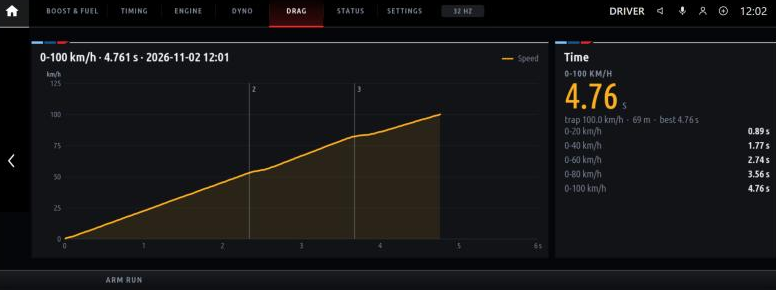
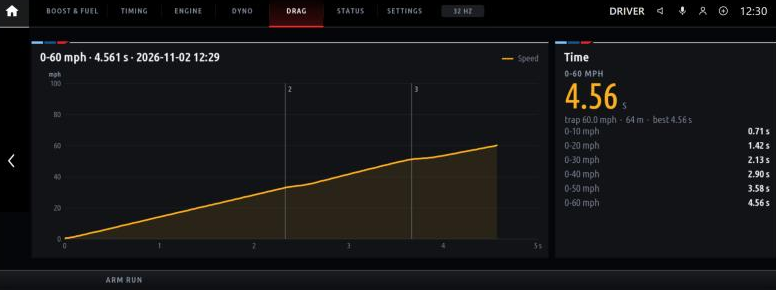
Default to mph, hp and lb-ft; 0-60 mph as the default drag run
Speed now defaults to mph and torque to lb-ft (power was already hp), and
the drag timer to 0-60 mph, with the US choices listed first. Every unit
stays a setting. README: a Units section listing each setting and its
choices, and the dyno and drag screenshots retaken in hp, lb-ft and mph.

diff --git a/README.md b/README.md
@@ -19,13 +19,29 @@ Boostline is an independent community project. It is not affiliated with or endo
 - **Live tiles** on three pages (*Boost & fuel*, *Timing*, *Engine*):
   - Each tile shows the current value and a 12-second trace.
   - Actual/target pairs share a tile with a deviation bar: boost, lambda, rail pressure, wastegate, throttle and VANOS.
-  - Units are bar/psi/kPa, °C/°F, km/h/mph and lambda/AFR.
+  - Values are shown in the units you pick (see [Units](#units)).
 - **Start capture** writes a Boostline CSV log to the app's data folder. The desktop app's log viewer, dyno and drag tools open it. Optionally, every full-throttle pull is captured automatically.
 - **Status page:** VIN, DME software, diagnostic index, which BMW DME data is in use, sample rate, the diagnostic link's request counts, and Boostline's log.
 
+### Units
+
+Speed, power and torque default to **mph, hp and lb-ft**, and the default drag run is 0–60 mph. You can change each of them in the app's **Settings** (the Settings tab, or the Settings button):
+
+| Setting | Choices (default first) |
+|---|---|
+| Speed unit | mph, km/h |
+| Power unit | hp, PS, kW |
+| Torque unit | lb-ft, Nm |
+| Pressure unit | bar, psi, kPa |
+| Temperature unit | Celsius, Fahrenheit |
+| Mixture as | lambda, AFR (petrol) |
+| Drag: run | 0–60 mph, 60–130 mph, 1/8 mile, 1/4 mile, 0–100 / 100–200 / 200–300 km/h |
+
+A change applies at once: the live tiles, the dyno curves and peaks, and the drag times and trace are redrawn in the new unit. Saved runs and logs aren't changed; they keep Boostline's native units, as on the desktop. The dyno's weight setting is in kg.
+
 ### Dyno (road dyno)
 
-![The Dyno page: engine power, wheel power and torque against rpm from a 4th-gear pull, with the peaks](docs/emulator-dyno.png)
+![The Dyno page: engine power, wheel power (hp) and torque (lb-ft) against rpm from a 4th-gear pull, with the peaks](docs/emulator-dyno.png)
 
 1. On the *Dyno* page, press **Arm run**.
 2. Do a full-throttle pull in one gear (3rd or 4th), from below the start rpm (2000 by default) to past the end rpm (6500 by default).
@@ -38,13 +54,13 @@ Boostline detects the pull and the gear on its own. It estimates engine power, w
 
 ### Drag
 
-![The Drag page: a 0-100 km/h run with the speed trace, the shifts, the time, trap speed and splits](docs/emulator-drag.png)
+![The Drag page: a 0-60 mph run with the speed trace, the shifts, the time, trap speed and splits](docs/emulator-drag.png)
 
 The run types are:
 
-- 0–100, 100–200 and 200–300 km/h
-- 0–60 and 60–130 mph
+- 0–60 mph (the default) and 60–130 mph
 - 1/8 and 1/4 mile
+- 0–100, 100–200 and 200–300 km/h
 
 How a run is timed:
 
@@ -56,7 +72,7 @@ The page shows:
 - the time and the trap speed
 - the distance
 - the best time for that run type
-- a split every 10 km/h (or mph)
+- a split every 10 mph (every 10 km/h for the km/h runs)
 - the speed trace with each shift and the gear it went into
 
 **Speedometer correction:** *True speed vs. the car's* corrects the car's speed by a fixed percentage. Measure the percentage once against GPS.
